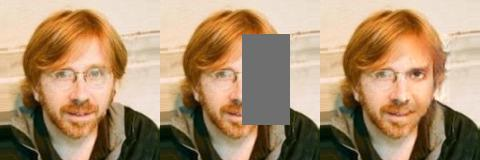
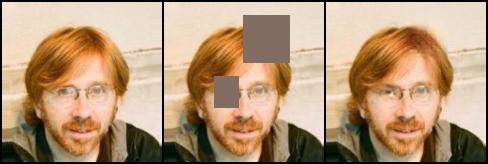
add

diff --git a/predict.py b/predict.py
@@ -15,12 +15,12 @@ parser.add_argument('model')
 parser.add_argument('config')
 parser.add_argument('input_img')
 parser.add_argument('output_img')
-parser.add_argument('--max_holes', type=int, default=1)
+parser.add_argument('--max_holes', type=int, default=5)
 parser.add_argument('--img_size', type=int, default=160)
-parser.add_argument('--hole_min_w', type=int, default=48)
-parser.add_argument('--hole_max_w', type=int, default=96)
-parser.add_argument('--hole_min_h', type=int, default=48)
-parser.add_argument('--hole_max_h', type=int, default=96)
+parser.add_argument('--hole_min_w', type=int, default=24)
+parser.add_argument('--hole_max_w', type=int, default=48)
+parser.add_argument('--hole_min_h', type=int, default=24)
+parser.add_argument('--hole_max_h', type=int, default=48)
 
 
 def main(args):

diff --git a/train.py b/train.py
@@ -32,9 +32,9 @@ parser.add_argument('--init_model_cd', type=str, default=None)
 parser.add_argument('--steps_1', type=int, default=90000)
 parser.add_argument('--steps_2', type=int, default=10000)
 parser.add_argument('--steps_3', type=int, default=400000)
-parser.add_argument('--snaperiod_1', type=int, default=18000)
+parser.add_argument('--snaperiod_1', type=int, default=10000)
 parser.add_argument('--snaperiod_2', type=int, default=2000)
-parser.add_argument('--snaperiod_3', type=int, default=80000)
+parser.add_argument('--snaperiod_3', type=int, default=10000)
 parser.add_argument('--max_holes', type=int, default=1)
 parser.add_argument('--hole_min_w', type=int, default=48)
 parser.add_argument('--hole_max_w', type=int, default=96)

diff --git a/README.md b/README.md
@@ -1,59 +1,59 @@
-# GLCIC-pytorch
-
+# GLCIC-PyTorch
 
 ## About this repository
 
-Here, we provide a pytorch implementation of [GLCIC](http://hi.cs.waseda.ac.jp/~iizuka/projects/completion/data/completion_sig2017.pdf) introduced by Iizuka et. al.
+In this repository, we provide a pytorch-based implementation of [GLCIC](http://hi.cs.waseda.ac.jp/~iizuka/projects/completion/data/completion_sig2017.pdf) introduced by Iizuka et. al.
 
 ![glcic](https://i.imgur.com/KY26J85.png)  
-![result_1](https://i.imgur.com/SYkn6Uo.png)  
-![result_2](https://i.imgur.com/T8GGx1g.jpg)  
+![result_1](https://i.imgur.com/mkjGj4N.jpg)
+![result_2](https://i.imgur.com/WfQPwhz.jpg)
 
 ## Dependencies
 
 We tested our scripts in the following environment.
 
 * Python: 3.6.5
-* torch: 1.0.0, 1.0.1
-* torchvision: 0.2.1
-* tqdm: 4.24.0
-* Pillow: 5.2.0
-* numpy: 1.14.5, 1.16.1
-* pyamg: 3.3.2, 4.0.0
-* scipy: 1.1.0
-* GPU: Geforce GTX 1080Ti (12GB RAM) X 1
+* torch: 1.0.1.post2
+* torchvision: 0.2.2.post3
+* tqdm: 4.31.1
+* Pillow: 5.4.1
+* opencv-python: 4.0.0.21 
+* numpy: 1.16.2
+* scipy: 1.2.1
+* GPU: Geforce GTX 1080Ti (12GB RAM) X 4
 
-If you would like to run our training script, we recommend you to
-use a more than middle-range GPU such as GTX 1070 or GTX 1080(Ti).
+If you'd like to run our training script (i.e., train.py), we recommend you to
+use a more than middle-range GPU such as GTX 1070(Ti) or GTX 1080(Ti).
 
 ## DEMO (Inference)
 
 ### 1. Download our pretrained model and the training config file.
-Pretrained model: [download](https://keiojp0-my.sharepoint.com/:u:/g/personal/snake_istobelieve_keio_jp/ETadvo335qNJvYa-chglWFsBmkVM9xH_c9WkdNkMBpVo2Q?e=glCQfb)  
-Training config file: [download](https://keiojp0-my.sharepoint.com/:u:/g/personal/snake_istobelieve_keio_jp/EWQL72AQjUhNsdsVN-AtAIMBWR_Xx-dBr48gbqpR47mlgQ?e=uiKzpK)
+* Pretrained model: [download](https://keiojp0-my.sharepoint.com/:u:/g/personal/snake_istobelieve_keio_jp/EUv1eHhZc11IrhjkBKcdWh8BCkcFVYnaI9a9sw_Rfqq9VA?e=8nqpP2)
+* Training config file: [download](https://keiojp0-my.sharepoint.com/:u:/g/personal/snake_istobelieve_keio_jp/EfPj4t02MiJFv2VD7OTHOeoBn4x2XlM_6tiUpKbia4xx4A?e=3lgzaF)
 
-The pretrained model was trained with [CelebA](http://mmlab.ie.cuhk.edu.hk/projects/CelebA.html) dataset,  
-and the training config file saves training settings in json format.
-
+The pretrained model was trained on the [CelebA](http://mmlab.ie.cuhk.edu.hk/projects/CelebA.html) dataset
+and the training config file stores training settings in json format.
 
 ### 2. Inference
 
-Left: input image  
-Center: input image of GLCIC  
-Right: output image of GLCIC  
-
-![predict_1](https://i.imgur.com/U4VAeFc.jpg)  
-![predict_2](https://i.imgur.com/B4T8Z3Y.jpg)  
-![predict_3](https://i.imgur.com/1wRQf5m.jpg)  
-
 ```bash
-# in {path_to_this_repo}/GLCIC-pytorch/,
-$ python predict.py model_cn_step400000 config.json images/test_1.jpg out.jpg
+# in {path_to_this_repo}/GLCIC-PyTorch/,
+$ python predict.py model_cn config.json images/test_2.jpg test_2_out.jpg
 ```
+
+Left: input image  
+Center: input image of Completion Network  
+Right: output image of Completion Network  
+
+<img src="https://imgur.com/jXSYxeh.jpg" width="160px">
+<img src="https://imgur.com/TM35BMq.jpg" width="160px">
+<img src="https://imgur.com/2SXStFZ.jpg" width="160px">
+<img src="https://imgur.com/EPaMwK9.jpg" width="160px">
+<img src="https://imgur.com/zotuLM3.jpg" width="160px">
 
 ## DEMO (Training)
 
-Here, we introduce how to train a model using CelebA dataset.
+In this section, we introduce how to train a model using CelebA dataset.
 
 ### 1. Download the dataset
 
@@ -63,44 +63,44 @@ Second, run the following commands.
 
 ```bash
 $ unzip img_align_celeba.zip
-$ mv img_align_celeba/ {path_to_this_repo}/GLCIC-pytorch/datasets/
-$ cd {path_to_this_repo}/GLCIC-pytorch/datasets/
+$ mv img_align_celeba/ {path_to_this_repo}/GLCIC-PyTorch/datasets/
+$ cd {path_to_this_repo}/GLCIC-PyTorch/datasets/
 $ python make_dataset.py img_align_celeba/
 ```
 
-Originally, all the images are stored in `img_align_celeba/`,
-and the last command splits the dataset into two subsets; training dataset (80%) and test dataset (20%). All the training images are stored in `img_align_celeba/train/`, while
-the other images are in `img_align_celeba/test/`.
-
+The last command splits the dataset into two subsets: (1) a training dataset (80%) and (1) a test dataset (20%).
+All the training images are stored in `img_align_celeba/train/`, while
+the other test images are stored in `img_align_celeba/test/`.
 
 ### 2. Training
 
 Just run the following command.
 
 ```bash
-# in {path_to_this_repo}/GLCIC-pytorch/,
+# in {path_to_this_repo}/GLCIC-PyTorch/,
 $ python train.py datasets/img_align_celeba results/demo/
 ```
 
-Training results (trained models and inference results at each snapshot period) are to be saved in `results/demo/`.
+Training results (trained models and inference results at each snapshot period) are to be stored in `results/demo/`.
 
-The training procedure consists the following three phases.  
+The training procedure consists of the following three phases.  
 1. In phase 1, only Completion Network (i.e., generator) is trained.
 2. In phase 2, only Context Discriminator (i.e., discriminator) is trained, while Completion Network is frozen.
-3. In phase 3, Both of the Completion Network and the Context Discriminator are jointly trained.
+3. In phase 3, Both of the networksd are jointly trained.
 
-Under default settings, the numbers of training steps during phase 1, phase 2, and phase 3 are 90,000, 10,000, and 400,000. Each snapshot period is set to 18,000, 2,000, and 80,000, respectively. Bach size is set to 16, while input image size is 160 x 160 (all the input images are rescalled so that the minumum side is 160, then randomly cropped to 160 x 160 images).
+In default settings, the numbers of training steps during phase 1, phase 2, and phase 3 are 90,000, 10,000, and 400,000, respectively.
+Each snapshot period is set to 10,000, 2,000, and 10,000.
+Bach size is 16.
+Size of an input image is 160 x 160 (all input images are rescalled so that the minumum side is 160, then randomly cropped to 160 x 160 images).
 
-Basically, hyper parameters and the model architecture (except for batch size) is exactly the same as described in the paper.
-**If you have some gpus and enough memory, you can train models concurrently with larger batch size
-by enabling `[--data_parallel]` option (see [above](#data_parallel))**
+Basically, hyper-parameters and the model architecture (except for batch size) is exactly the same as described in the paper.
+**You can train models with larger batch size by enabling `[--data_parallel]` flag (see [here](#data_parallel)) if you have some gpus and enough size of memory.**
 
 ## How to train with your own dataset ?
 
 ### 1. Prepare dataset
 
-To train a model using your own dataset, first you have to make a dataset
-directory in the following format.
+First you have to make a dataset directory in the following format.
 
 ```
 dataset/ # the directory name can be anything.
@@ -113,18 +113,18 @@ dataset/ # the directory name can be anything.
 ```
 
 Images in `dataset/train/` are used for training models, while
-images in `dataset/test/` are used to perform test inpainting at each
+images in `dataset/test/` are used for test inpainting at each
 snapshot period.
 
 ### 2. Training
 
 ```bash
-# in {path_to_this_repo}/GLCIC-pytorch/,
+# in {path_to_this_repo}/GLCIC-PyTorch/,
 $ mv dataset/ datasets/
 $ python train.py datasets/dataset/ results/result/ [--data_parallel] [--cn_input_size] [--ld_input_size] [--steps_1] [--steps_2] [--steps_3] [--snaperiod_1] [--snaperiod_2] [--snaperiod_3] [--bsize] [--bdivs] [--optimizer]
 ```
 
-Training results for each training phase (trained models and test completion results at each snapshot period) are to be stored in `results/result/`.
+Results for each training phase (trained models and test inpainting results) are to be stored in `results/result/`.
 
 <a name="data_parallel"></a>
 **Arguments**  
@@ -132,64 +132,64 @@ Training results for each training phase (trained models and test completion res
 * `<result>` (required): Path to the result directory.
 * `[--data_parallel]`: Suppose you have *N* gpus available, the whole model is copied to the *N* gpus and
 each minibatch of batch size (*bsize* / *N*) is sent to each gpu. Then, all the grads are reduced and
-the updated parameters are broadcasted to all the gpus. The procedure is looped until the training ends.
+the updated parameters are broadcasted to all the gpus. The whole procedure is iterated until all the three training phases end.
 You can speed up the training procedure ideally up to *N* times faster. (default: False (store true)).
-* `[--cn_input_size]`: Input size of Completion Network (default: 160). All the input images are rescalled so that the length of the minimum side = cn\_input\_size,
-then randomly cropped to cn\_input\_size x cn\_input\_size images.
+* `[--cn_input_size]`: Input size of Completion Network. All input images are rescalled so that the minimum side = cn\_input\_size
+then randomly cropped to cn\_input\_size x cn\_input\_size images (default: 160).
 * `[--ld_input_size]`: Input size of Local Discriminator (default: 96).
-* `[--init_model_cn]`: Path to the pre-trained model of Completion Network. This is used as the initial parameters (default: None).
-* `[--init_model_cd]`: Path to the pre-trained model of Context Discriminator (default: None).
-* `[--steps_1]`: Training iterations in phase 1 (default: 90,000).
-* `[--steps_2]`: Training iterations in phase 2 (default: 10,000).
-* `[--steps_3]`: Training iterations in the last phase (default: 400,000).
-* `[--snaperiod_1]`: Snapshot period in phase 1 (default: 18,000).
-* `[--snaperiod_2]`: Snapshot period in phase 2 (default: 2,000).
-* `[--snaperiod_3]`: Snapshot period in the last phase (default: 80,000).
-* `[--max_holes]`: The max number of holes (default: 1).
+* `[--init_model_cn]`: Path to a pretrained model of Completion Network. It is used as the initial parameters (default: None).
+* `[--init_model_cd]`: Path to the pretrained model of Context Discriminator (default: None).
+* `[--steps_1]`: The number of training steps during phase 1 (default: 90,000).
+* `[--steps_2]`: The number of training steps during phase 2 (default: 10,000).
+* `[--steps_3]`: The number of training steps during phase 3 (default: 400,000).
+* `[--snaperiod_1]`: Snapshot period during phase 1 (default: 10,000).
+* `[--snaperiod_2]`: Snapshot period during phase 2 (default: 2,000).
+* `[--snaperiod_3]`: Snapshot period during phase 3 (default: 10,000).
+* `[--max_holes]`: The max number of holes to be randomly generated (default: 1).
 * `[--hole_min_w]`: The minimum width of a hole (default: 48).
-* `[--hole_max_w]`: The max width of a hole (default: 48).
-* `[--hole_min_h]`: The minimum height of a hole (default: 96).
+* `[--hole_max_w]`: The max width of a hole (default: 96).
+* `[--hole_min_h]`: The minimum height of a hole (default: 48).
 * `[--hole_max_h]`: The max height of a hole (default: 96).
 * `[--bsize]`: Batch size (default: 16).
-* `[--bdivs]`: Devide a single training step of batch size *bsize* into *bdivs* steps of batch size *bsize / bdivs* on the same gpu, and
-update the parameters every *bdivs* steps. You can get the same training results as when *bdivs == 1* with smaller gpu memory.
-However, the training procedure would somehow slow down due to the spliting.
-If you have enabled `[--data_parallel]` option and *N* gpus are available, each minibach of batch size *bsize / N* is
-sent to each gpu, then a single training step of batch size *bsize / N* on one gpu is devided into *bdivs* steps of batch size *(bsize / N) / bdivs*,
+* `[--bdivs]`: Devide a single training step of batch size *bsize* into *bdivs* steps of batch size *bsize / bdivs* on a single gpu and
+update the model parameters every *bdivs* steps. It produce the same training results as when *bdivs == 1* with smaller gpu memory consumption.
+However, the whole training procedure would somehow slow down due to the spliting.
+If you enable `[--data_parallel]` option and *N* gpus are available, each minibach of batch size *bsize / N* is
+sent to each gpu. Then a single training step of batch size *bsize / N* on a single gpu is devided into *bdivs* steps of batch size *(bsize / N) / bdivs*,
 and the parameters are updated every *bdivs* steps. (default: 1).
 * `[--optimizer]`: 'adadelta' or 'adam' (default: 'adadelta').
 
-**Example**: If you'd like to train a model with batch size 24 with data_parallel option, and the other parameters are default values, run the following command.
+**Example**: If you'd like to train a model with batch size 24 with data_parallel option and the other parameters are default values, run the following command.
 
 ```bash
-# in {path_to_this_repo}/GLCIC-pytorch/,
+# in {path_to_this_repo}/GLCIC-PyTorch/,
 $ python train.py datasets/dataset results/result --data_parallel --bsize 24
 ```
 
 ## How to infer with your own dataset ?
 
-Suppose you've finished train a model and the result directory is `{path_to_this_repo}/GLCIC-pytorch/results/result`, run the following command.
+Suppose you've finished train a model and the result directory is `{path_to_this_repo}/GLCIC-PyTorch/results/result`, run the following command.
 
 ```bash
-# in {path_to_this_repo}/GLCIC-pytorch/,
+# in {path_to_this_repo}/GLCIC-PyTorch/,
 $ python predict.py results/result/phase_3/model_cn_step{step_number} results/result/config.json <input_img> <output_img> [--max_holes] [--img_size] [--hole_min_w] [--hole_max_w] [--hole_min_h] [--hole_max_h]
 ```
 
 **Arguments**  
 * `<input_img>` (required): Path to an input image.
 * `<output_img>` (required): Path to an output image.
-* `[--img_size]`: Input size of Completion Network (default: 160). The input image are rescalled so that the length of the minimum side = img\_size,
-then randomly cropped to a img\_size x img\_size image.
-* `[--max_holes]`: The max number of holes (default: 1).
-* `[--hole_min_w]`: The minimum width of a hole (default: 48).
+* `[--img_size]`: Input size of Completion Network. Input images are rescalled so that the minimum side = img\_size
+then randomly cropped to img\_size x img\_size images (default: 160).
+* `[--max_holes]`: The max number of holes to be randomly generated (default: 5).
+* `[--hole_min_w]`: The minimum width of a hole (default: 24).
 * `[--hole_max_w]`: The max width of a hole (default: 48).
-* `[--hole_min_h]`: The minimum height of a hole (default: 96).
-* `[--hole_max_h]`: The max height of a hole (default: 96).
+* `[--hole_min_h]`: The minimum height of a hole (default: 24).
+* `[--hole_max_h]`: The max height of a hole (default: 48).
 
-**Example**: If you'd like to make a inference with a input image `{path_to_this_repo}/GLCIC-pytorch/input.jpg` and create an output image `{path_to_this_repo}/GLCIC-pytorch/output.jpg`, run the following command.
+**Example**: If you'd like to make a inference with an input image `{path_to_this_repo}/GLCIC-PyTorch/input.jpg` and create an output image `{path_to_this_repo}/GLCIC-PyTorch/output.jpg`, run the following command.
 
 ```bash
-# in {path_to_this_repo}/GLCIC-pytorch/,
+# in {path_to_this_repo}/GLCIC-PyTorch/,
 $ python predict.py results/result/phase_3/model_cn_step{step_number} results/result/config.json input.jpg output.jpg
 ```
 
